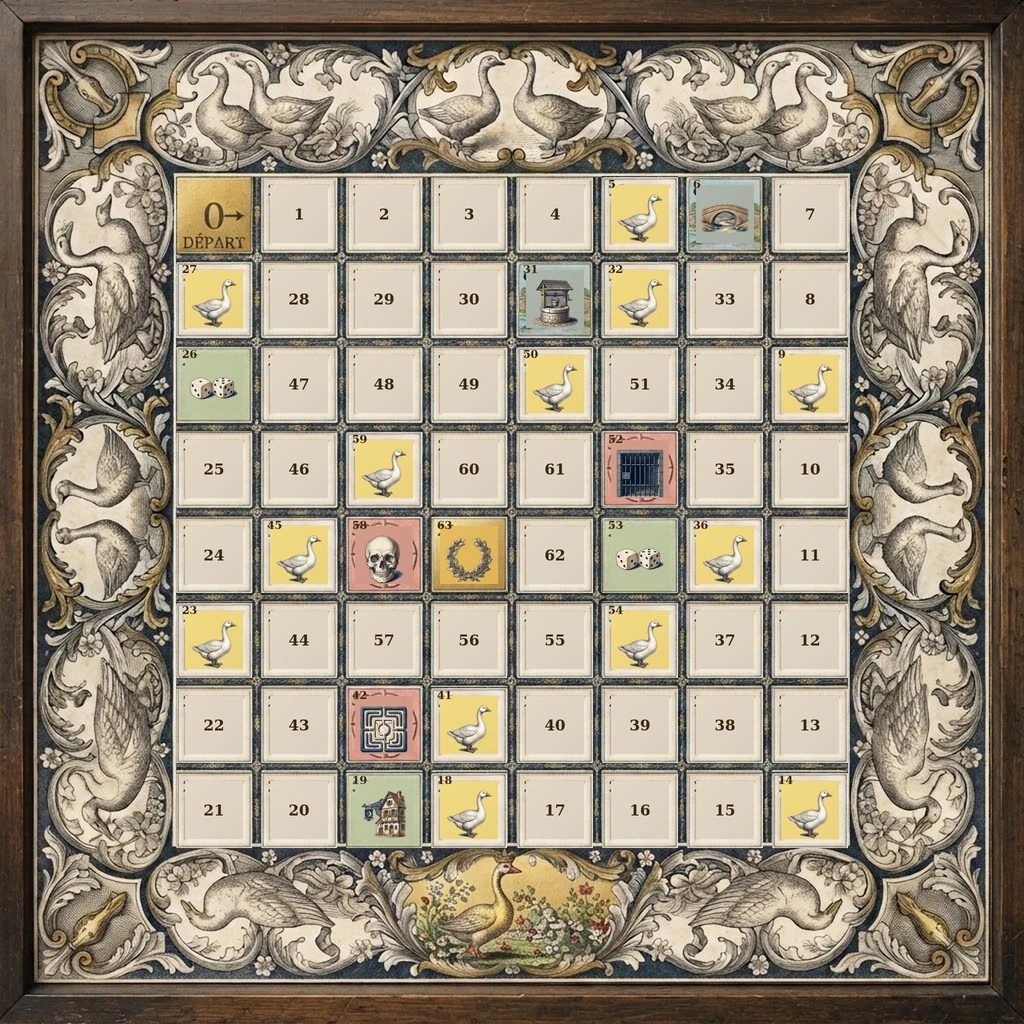
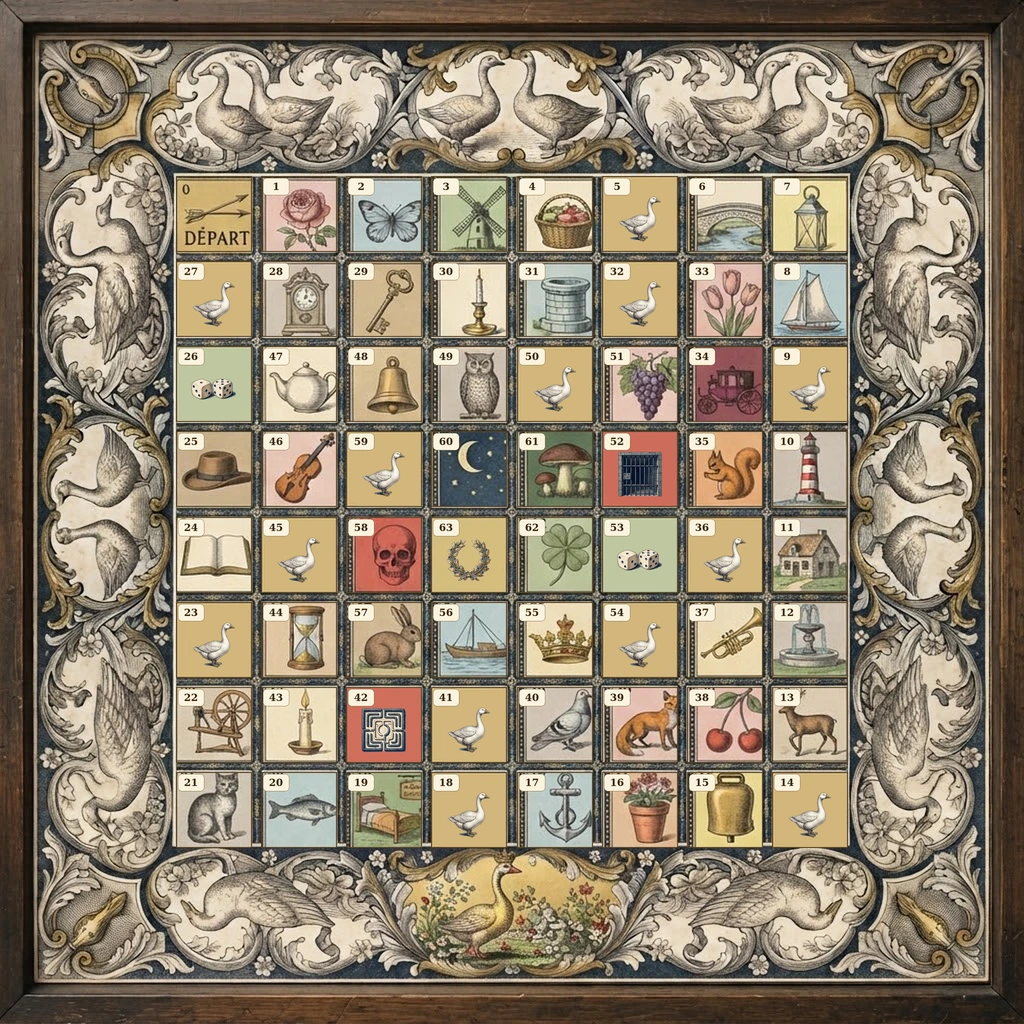
Oie: plateau entièrement illustré (vignettes Gemini remontées sur la grille 8x8)
Claude-Session: https://claude.ai/code/session_01UTaypXBnC3UMfvWUL5q9hs

Changed region(s): [[0.1562, 0.1562, 0.8438, 0.8438]]

diff --git a/oie/sw.js b/oie/sw.js
@@ -1,4 +1,4 @@
-const CACHE='jeux-oie-v2';
+const CACHE='jeux-oie-v3';
 const FILES=["./", "./index.html", "./peerjs.min.js", "./manifest.webmanifest", "./icons/icon-192.png", "./icons/icon-512.png", "./img/board.webp", "./img/i_goose.webp", "./img/i_bridge.webp", "./img/i_inn.webp", "./img/i_well.webp", "./img/i_maze.webp", "./img/i_prison.webp", "./img/i_skull.webp", "./img/i_dice.webp", "./img/i_crown.webp", "./img/pw0.webp", "./img/pw1.webp", "./img/pw2.webp", "./img/pw3.webp", "./img/pw4.webp", "./img/pw5.webp", "./img/d1.webp", "./img/d2.webp", "./img/d3.webp", "./img/d4.webp", "./img/d5.webp", "./img/d6.webp"];
 self.addEventListener('install',e=>{e.waitUntil(caches.open(CACHE).then(c=>c.addAll(FILES)).then(()=>self.skipWaiting()));});
 self.addEventListener('activate',e=>{e.waitUntil(caches.keys().then(ks=>Promise.all(ks.filter(k=>k.startsWith('jeux-oie-')&&k!==CACHE).map(k=>caches.delete(k)))).then(()=>self.clients.claim()));});

diff --git a/index.html b/index.html
@@ -114,7 +114,7 @@ a.g .tag{position:absolute;right:5px;top:5px;font-size:11px;font-weight:800;back
 </script>
 <script>
 (function(){
-  const VERSION='n°196 · 28/10 21:32';
+  const VERSION='n°197 · 28/10 21:38';
   const ver=document.getElementById('ver'),upd=document.getElementById('upd');
   ver.textContent='Version '+VERSION;
   document.querySelectorAll('a.g').forEach(x=>{const h=x.getAttribute('href');if(h&&!h.includes('?'))x.setAttribute('href',h+'?v='+encodeURIComponent(VERSION));const im=x.querySelector('img');if(im)im.src=im.getAttribute('src')+'?v='+encodeURIComponent(VERSION);x.addEventListener('click',()=>{try{localStorage.setItem('hub-last',x.dataset.n+'|'+x.getAttribute('href')+'|'+im.getAttribute('src'));}catch(e){}});});
